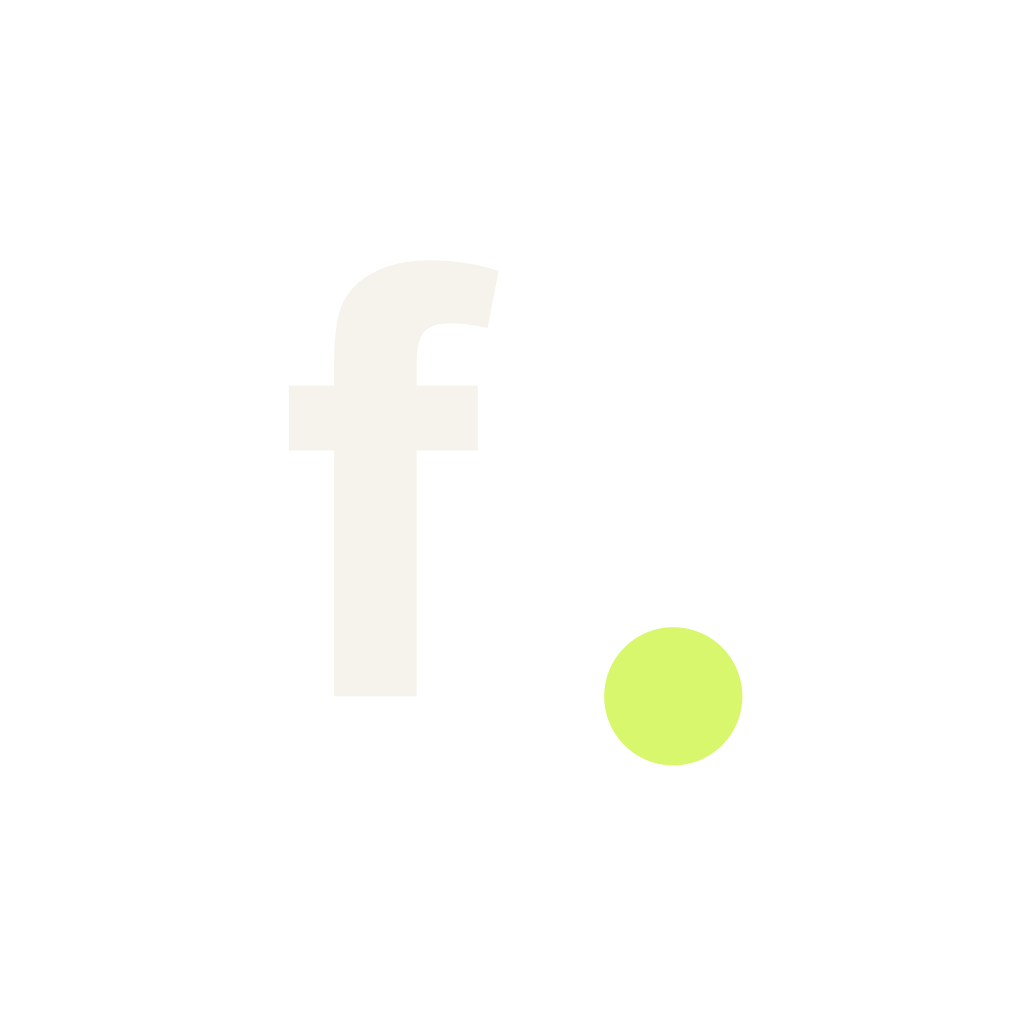
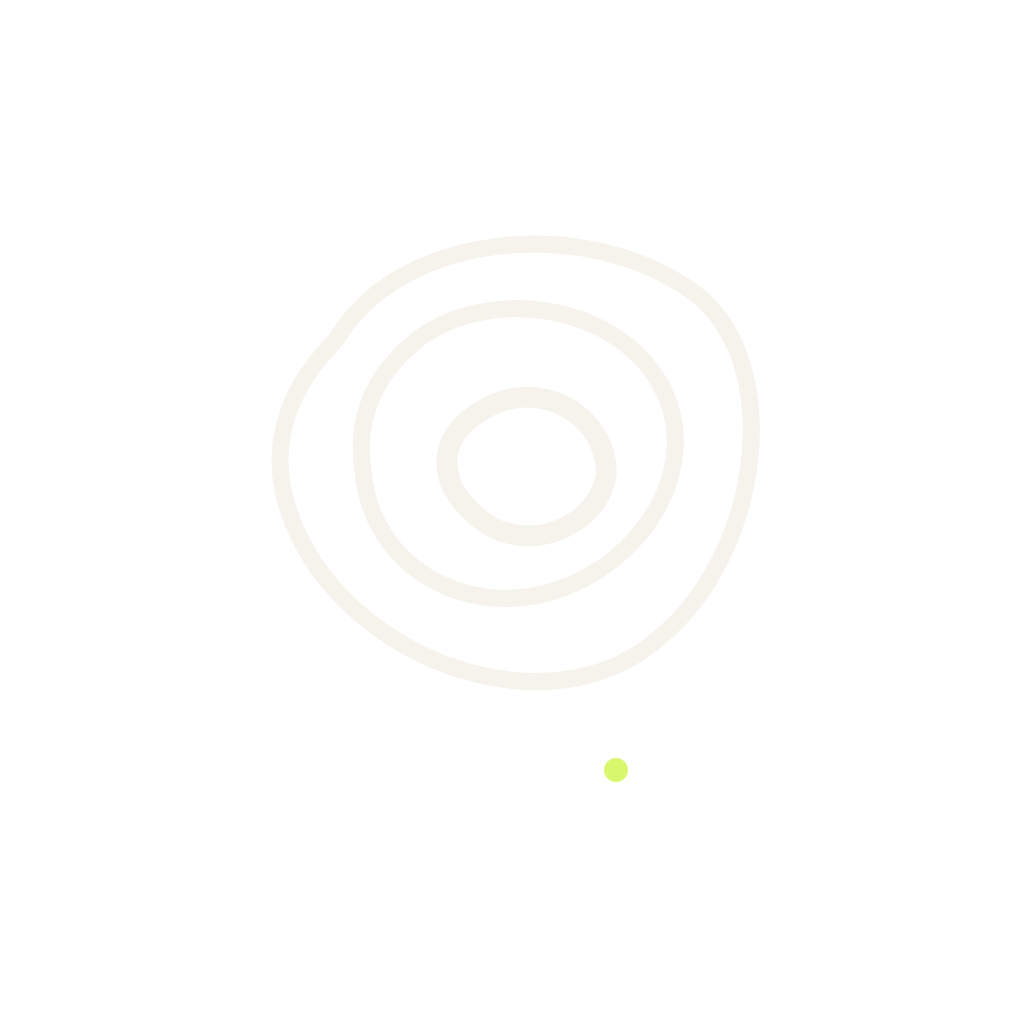
Update mobile app branding and contour loading screen

Changed region(s): [[0.5938, 0.5938, 0.75, 0.7812]]

diff --git a/apps/mobile/App.tsx b/apps/mobile/App.tsx
@@ -1,5 +1,5 @@
-import { useEffect, useState, useSyncExternalStore } from 'react';
-import { AppState, BackHandler, KeyboardAvoidingView, Platform, ScrollView, Text, View } from 'react-native';
+import { useEffect, useRef, useState, useSyncExternalStore } from 'react';
+import { Animated, AppState, BackHandler, Easing, Image, KeyboardAvoidingView, Platform, ScrollView, Text, View } from 'react-native';
 import { SafeAreaProvider, SafeAreaView } from 'react-native-safe-area-context';
 import { StatusBar } from 'expo-status-bar';
 import * as Clipboard from 'expo-clipboard';
@@ -252,6 +252,67 @@ function TransactionLookup() {
   );
 }
 
+function ContourLoadingScreen({ initError, onRetry }: { initError: string | null; onRetry: () => void }) {
+  const pulse = useRef(new Animated.Value(0)).current;
+
+  useEffect(() => {
+    const animation = Animated.loop(
+      Animated.sequence([
+        Animated.timing(pulse, {
+          toValue: 1,
+          duration: 1200,
+          easing: Easing.inOut(Easing.ease),
+          useNativeDriver: true,
+        }),
+        Animated.timing(pulse, {
+          toValue: 0,
+          duration: 1200,
+          easing: Easing.inOut(Easing.ease),
+          useNativeDriver: true,
+        }),
+      ])
+    );
+    animation.start();
+    return () => animation.stop();
+  }, [pulse]);
+
+  const scale = pulse.interpolate({
+    inputRange: [0, 1],
+    outputRange: [0.96, 1.04],
+  });
+
+  const opacity = pulse.interpolate({
+    inputRange: [0, 1],
+    outputRange: [0.75, 1],
+  });
+
+  return (
+    <View style={{ flex: 1, justifyContent: 'center', alignItems: 'center', padding: 24, minHeight: 380 }}>
+      <Animated.View style={{ transform: [{ scale }], opacity, marginBottom: 24, alignItems: 'center' }}>
+        <Image
+          source={require('./assets/brand/mark.png')}
+          style={{ width: 84, height: 84 }}
+          resizeMode="contain"
+        />
+      </Animated.View>
+      <Text style={{ fontSize: 24, fontWeight: '700', letterSpacing: -1, color: colors.ink, marginBottom: 6 }}>
+        flurbo<Text style={{ color: colors.lime }}>.</Text>
+      </Text>
+      <Text style={{ fontSize: 14, color: colors.muted, letterSpacing: 0.2, marginBottom: 16 }}>
+        {initError ? 'Connection interrupted' : 'Connecting to Monad testnet...'}
+      </Text>
+      {initError ? (
+        <View style={{ width: '100%', maxWidth: 360, marginTop: 12, gap: 12 }}>
+          <Notice>{initError}</Notice>
+          <Button title="Retry connection" onPress={onRetry} />
+        </View>
+      ) : (
+        <Copy small>Restoring account session and market directory</Copy>
+      )}
+    </View>
+  );
+}
+
 function Main() {
   const login = useSyncExternalStore(auth.subscribe, auth.getSnapshot);
   const wallet = useSyncExternalStore(externalWallet.subscribe, externalWallet.getSnapshot);
@@ -351,24 +412,36 @@ function Main() {
     <SafeAreaView style={s.screen} edges={['top', 'bottom']}>
       <StatusBar style="dark" />
       <KeyboardAvoidingView style={{ flex: 1 }} behavior={Platform.OS === 'ios' ? 'padding' : undefined}>
-        <View style={[s.row, { paddingHorizontal: 22, paddingVertical: 14, justifyContent: 'space-between' }]}>
-          <Text style={{ fontSize: 29, fontWeight: '700', letterSpacing: -1.7, color: colors.ink }}>
-            flurbo<Text style={{ color: colors.lime }}>.</Text>
-          </Text>
-          <Copy small>MONAD TESTNET</Copy>
+        <View style={[s.row, { paddingHorizontal: 22, paddingVertical: 14, justifyContent: 'space-between', alignItems: 'center' }]}>
+          <View style={[s.row, { alignItems: 'center', gap: 10 }]}>
+            <Image
+              source={require('./assets/brand/mark.png')}
+              style={{ width: 32, height: 32 }}
+              resizeMode="contain"
+            />
+            <Text style={{ fontSize: 28, fontWeight: '700', letterSpacing: -1.5, color: colors.ink }}>
+              flurbo<Text style={{ color: colors.lime }}>.</Text>
+            </Text>
+          </View>
+          <View style={{ backgroundColor: colors.ink, paddingHorizontal: 10, paddingVertical: 5, borderRadius: 6 }}>
+            <Text style={{ fontSize: 11, fontWeight: '700', color: colors.lime, letterSpacing: 0.6 }}>MONAD TESTNET</Text>
+          </View>
         </View>
 
         <ScrollView key={page} keyboardShouldPersistTaps="handled" contentContainerStyle={s.content}>
           {!ready ? (
-            <>
-              <Title>Welcome to Flurbo.</Title>
-              <Notice>{initError || 'Restoring your account and saved transactions...'}</Notice>
-              {initError && <Button title="Retry" onPress={() => void boot()} />}
-            </>
+            <ContourLoadingScreen initError={initError} onRetry={() => void boot()} />
           ) : !login.address ? (
             <>
-              <Copy small>ONE SHARED MARKET</Copy>
-              <Title>A view worth combining.</Title>
+              <View style={{ alignItems: 'center', marginVertical: 12 }}>
+                <Image
+                  source={require('./assets/brand/mark.png')}
+                  style={{ width: 64, height: 64, marginBottom: 12 }}
+                  resizeMode="contain"
+                />
+                <Copy small>ONE SHARED MARKET</Copy>
+                <Title>A view worth combining.</Title>
+              </View>
               <Copy>Explore individual predictions and see how the market prices the relationships between events.</Copy>
               <Card>
                 <Heading>Your account starts with a passkey.</Heading>
@@ -489,7 +562,14 @@ function Main() {
 
               {page === 'about' && (
                 <>
-                  <Title>One pool. More possibilities.</Title>
+                  <View style={{ alignItems: 'center', marginVertical: 14 }}>
+                    <Image
+                      source={require('./assets/brand/mark.png')}
+                      style={{ width: 56, height: 56, marginBottom: 12 }}
+                      resizeMode="contain"
+                    />
+                    <Title>One pool. More possibilities.</Title>
+                  </View>
                   <Copy>
                     Flurbo brings individual and combined predictions into one shared market, letting you see how the
                     market prices relationships between events.
